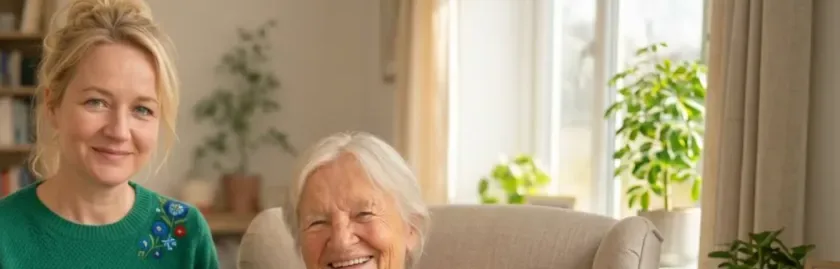
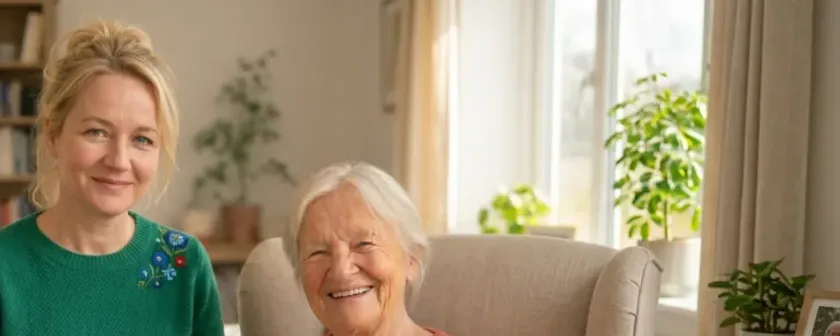
cro: Hero-Bild 150px mit Gesichtern+Schultern (Martin: mehr von den Menschen)
Neuer Zuschnitt 840x336 (y70-406) statt 269px-Streifen. Bewusster
Trade-off: dritter Antwort-Button (Unterkante 736px) ist NUR solange das
Cookie-Banner steht (ab 708px) angeschnitten — nach dem Consent-Klick voll
sichtbar; Buttons 1-2 immer komplett über dem Banner.

diff --git a/project 3/app/page.tsx b/project 3/app/page.tsx
@@ -39,15 +39,16 @@ export default function HomePage() {
             kompakter (24px), Wizard DIREKT unter die H1; USP-Bullets und
             Presse-Box rutschen unter das Formular (Inhalte unverändert). */}
         <div className="lg:hidden">
-          <div className="relative w-full h-[120px] md:h-[190px] overflow-hidden mb-2 bg-[#F8F7F5]">
+          <div className="relative w-full h-[150px] md:h-[190px] overflow-hidden mb-2 bg-[#F8F7F5]">
             {/* LCP element — explicit priority + sizes so the optimizer
                 generates a mobile-sized WebP/AVIF and the browser fetches
                 it eagerly with fetchpriority="high". */}
             {/* PM-Betreuung_hero_mobil.webp (Martin 15.08.): eigener
-                Zuschnitt RECHTS vom einmontierten Siegel (nur die beiden
-                Personen, 840x269 = exakt 375:120) — kein cleanes Original
-                vorhanden, so ist das Foto-Siegel sicher draußen und das
-                Overlay-Siegel links ist die einzige, saubere Instanz. */}
+                Zuschnitt RECHTS vom einmontierten Siegel (840x336 = exakt
+                375:150, Gesichter + Schultern, "mehr von den Menschen") —
+                kein cleanes Original vorhanden, so ist das Foto-Siegel
+                sicher draußen; das Overlay-Siegel rechts ist die einzige,
+                immer ungeschnittene Instanz. */}
             <Image
               src="/images/PM-Betreuung_hero_mobil.webp"
               alt="Professionelle 24-Stunden-Betreuung"
